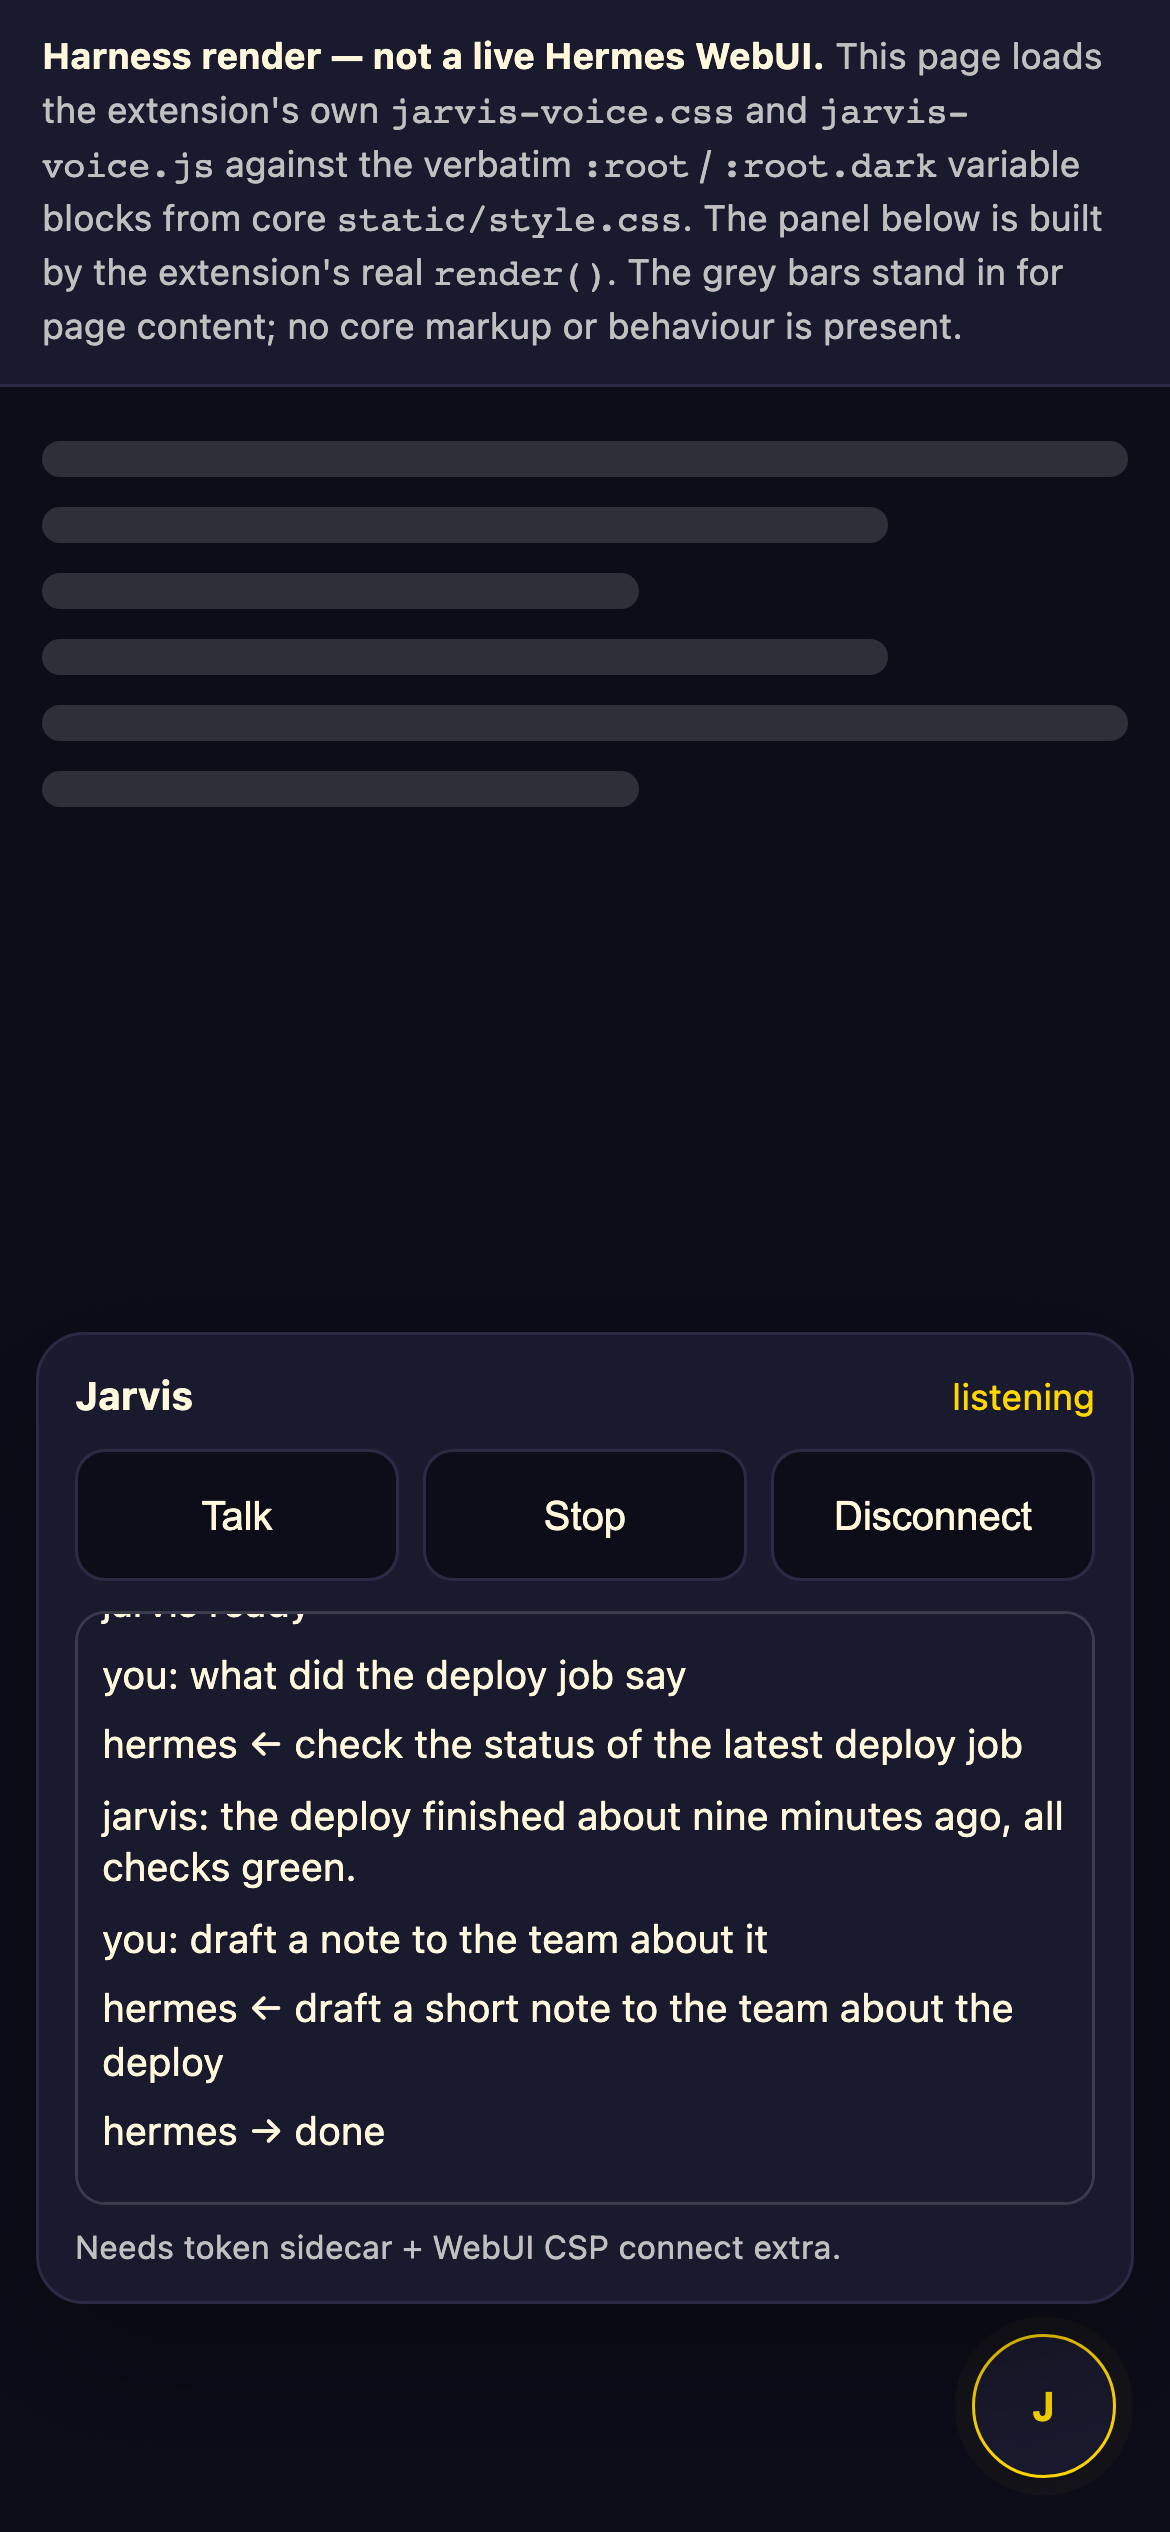
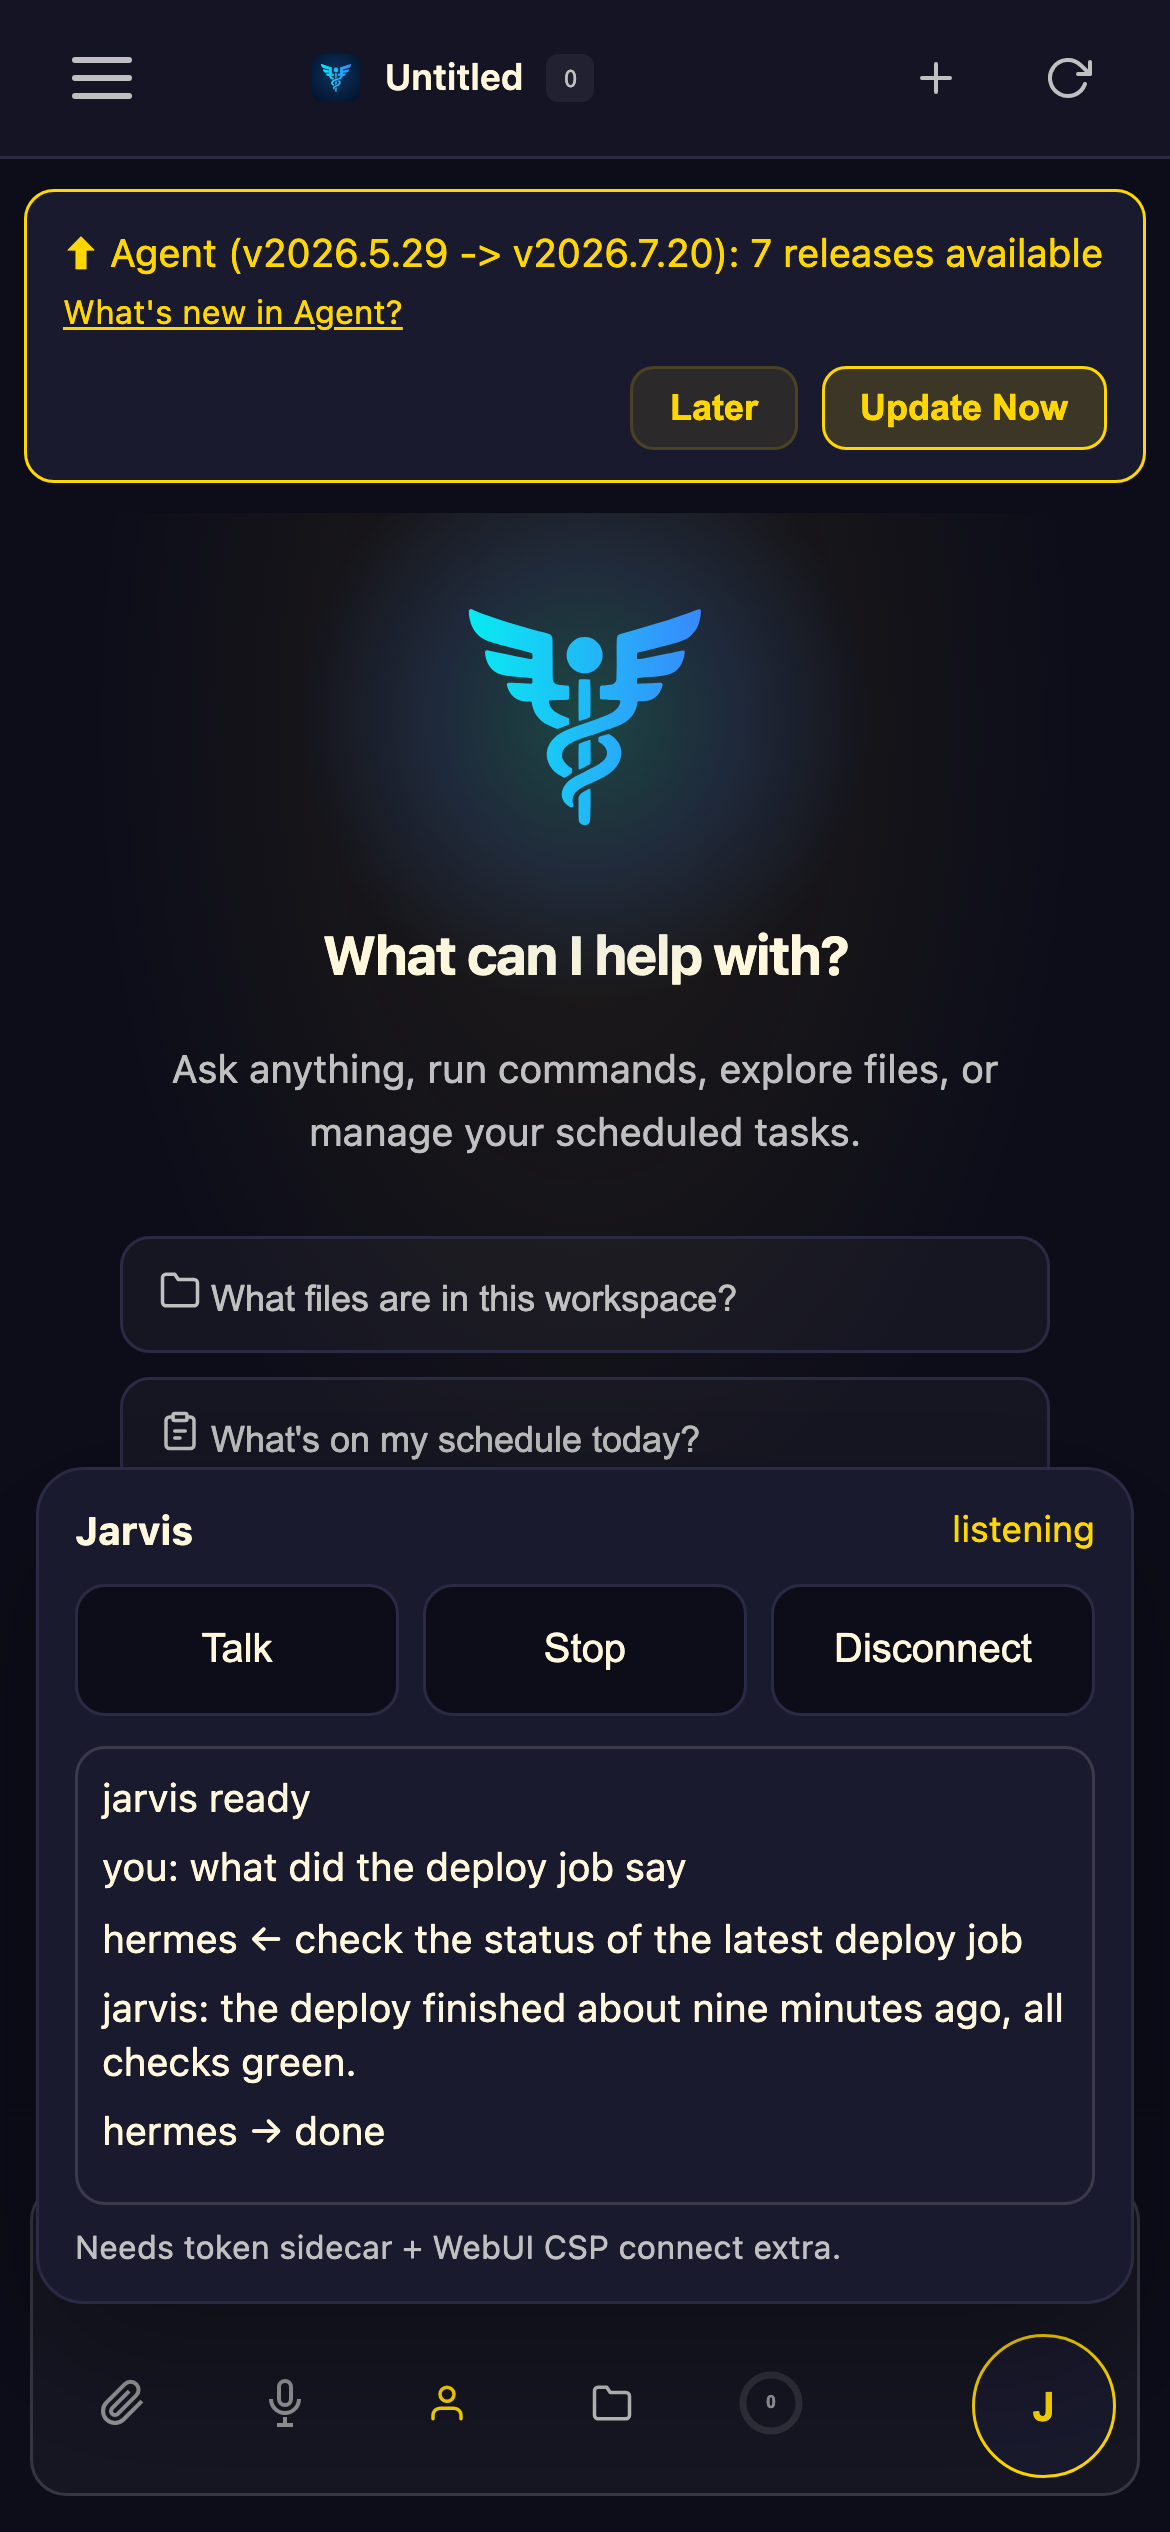
test: verify against a running WebUI, replace screenshots with live captures
Ran core (nesquena/hermes-webui) locally on an isolated state directory with
this extension installed through core's own loader, and drove it with a real
browser. This replaces inference from core's source with observation.

Confirmed in the running app:

- `typeof window.S` is "undefined" and bare `S` is the real state object. The
  binding that shipped broken is now empirically proven broken, and the fix
  proven correct, rather than argued from static/ui.js:8.
- `runHermes()` completed end to end against a real session and returned
  Hermes's own assistant reply. The network log shows exactly two writes,
  /api/session/draft and /api/chat/start — the two routes declared in
  permissions.webui_api.write, confirmed rather than inferred.
- Escape from the toggle closes the card, flips aria-expanded and returns
  focus, with real DOM bubbling.
- Core reports the extension as enabled with settings_schema: 3, so the
  manifest.json mirroring works through core's real loader.
- Panel z-index resolves to 1000, below core's 1100 dialogs. No page errors.

One harness claim was wrong and is corrected: core's `api` IS on window
(`typeof window.api` is "function"), not lexical-only. The harness keeps the
stricter lexical model on purpose — the extension resolves `api` as a bare
identifier, which is correct either way — but the comment no longer misstates
core.

Screenshots are now captures of the running WebUI rather than a mock page, so
[…]

diff --git a/extensions/jarvis-voice/screenshots/README.md b/extensions/jarvis-voice/screenshots/README.md
@@ -1,50 +1,61 @@
 # Jarvis Voice screenshots
 
-**These are harness renders, not captures of a live Hermes WebUI.**
-
-`harness.html` is a standalone page that loads this extension's real
-`assets/jarvis-voice.css` and `assets/jarvis-voice.js`, so the panel in every
-image is built by the extension's own `render()`. The theme variables are the
-verbatim `:root` and `:root.dark` blocks from core `static/style.css`, inlined so
-the colours are genuine core values rather than invented ones.
-
-What the harness does **not** include: any core markup, any core behaviour, a
-session, a sidecar, or a Gemini connection. The grey bars stand in for page
-content, and the transcript lines are a fixture written by the page itself. No
-part of these images demonstrates the extension working against a running
-Hermes WebUI.
-
-## Images
+Captured from a **running Hermes WebUI** with this extension installed, not from a
+mock page. The panel, the surrounding chrome, and the theme colours are all the
+real application.
 
 | File | Viewport | Theme |
 | --- | --- | --- |
-| `jarvis-voice-desktop-light.png` | 1280×800 @2x | light |
-| `jarvis-voice-desktop-dark.png` | 1280×800 @2x | dark |
+| `jarvis-voice-desktop-light.png` | 1440×900 @2x | light |
+| `jarvis-voice-desktop-dark.png` | 1440×900 @2x | dark |
 | `jarvis-voice-mobile-light.png` | 390×844 @3x, touch | light |
 | `jarvis-voice-mobile-dark.png` | 390×844 @3x, touch | dark |
 
-## Regenerating
+## What is real and what is staged
+
+Real: the WebUI, the sidebar and composer, core's theme variables, the extension
+loaded through core's own extension loader, and the panel built by the
+extension's own `render()`.
+
+Staged: the transcript lines inside the panel are written by the capture script so
+the panel is shown in its normal in-use state. Reaching that state for real needs
+a Gemini Live connection, which would put a live provider session and a real API
+key into a screenshot.
+
+Not present: no Gemini connection, no token sidecar, and the Hermes agent backend
+was deliberately absent in the capture instance, so nothing in these images
+depended on a working model provider.
+
+## Reproducing
 
 ```bash
-cd extensions/jarvis-voice
-python3 -m http.server 8898
-# then open http://127.0.0.1:8898/screenshots/harness.html?theme=dark
+# 1. Run core with an isolated state directory
+HERMES_WEBUI_STATE_DIR=/tmp/webui-state HERMES_WEBUI_PORT=8791 python server.py
+
+# 2. Install this extension into that state directory
+mkdir -p /tmp/webui-state/extensions
+cp -R extensions/jarvis-voice /tmp/webui-state/extensions/
+printf '{"version":1,"installed":{"jarvis-voice":{"version":"0.1.0","source":"local"}}}' \
+  > /tmp/webui-state/extension-install-manifest.json
+
+# 3. Open http://127.0.0.1:8791/ and click the J button
 ```
 
-Append `?theme=dark` for the dark variants. The mobile images were taken at
-390×844 with touch emulation on, which is what triggers the `pointer: coarse`
-rule that raises the action buttons to the 44px floor.
+Add `document.documentElement.classList.add('dark')` for the dark variants. The
+mobile images need touch emulation on, which is what triggers the
+`pointer: coarse` rule raising the action buttons to the 44px floor.
 
-## Measured from the rendered layout
+## Measured from the live layout
 
-Taken from `getBoundingClientRect()` / `getComputedStyle()` on the real panel,
-not read off the images:
+Read from `getBoundingClientRect()` and `getComputedStyle()` on the rendered
+panel in the running app, not eyeballed from the images:
 
-| Property | Desktop | Mobile |
+| Property | Desktop | Mobile (touch) |
 | --- | --- | --- |
 | Panel `z-index` | 1000 | 1000 |
 | Toggle size | 48×48 | 48×48 |
-| Talk/Stop/Disconnect height | 31px | **44px** |
+| Talk / Stop / Disconnect height | 31px | **44px** |
 | Card overflows right edge | no | no |
 | Card overflows bottom edge | no | no |
-| Card background (light / dark) | `rgb(243,238,227)` / `rgb(26,26,46)` | same |
+| Card background, light / dark | `rgb(243,238,227)` / `rgb(26,26,46)` | same |
+| Card text, light / dark | `rgb(26,22,16)` / `rgb(255,248,220)` | same |
